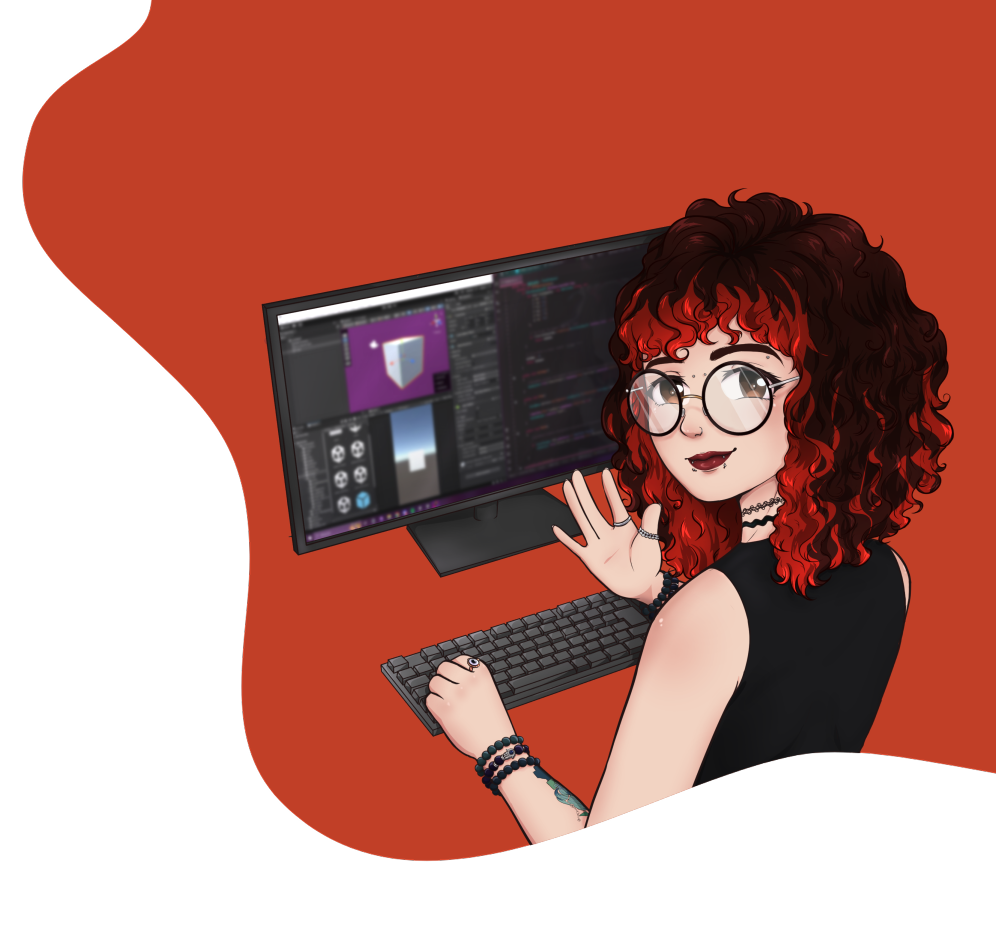
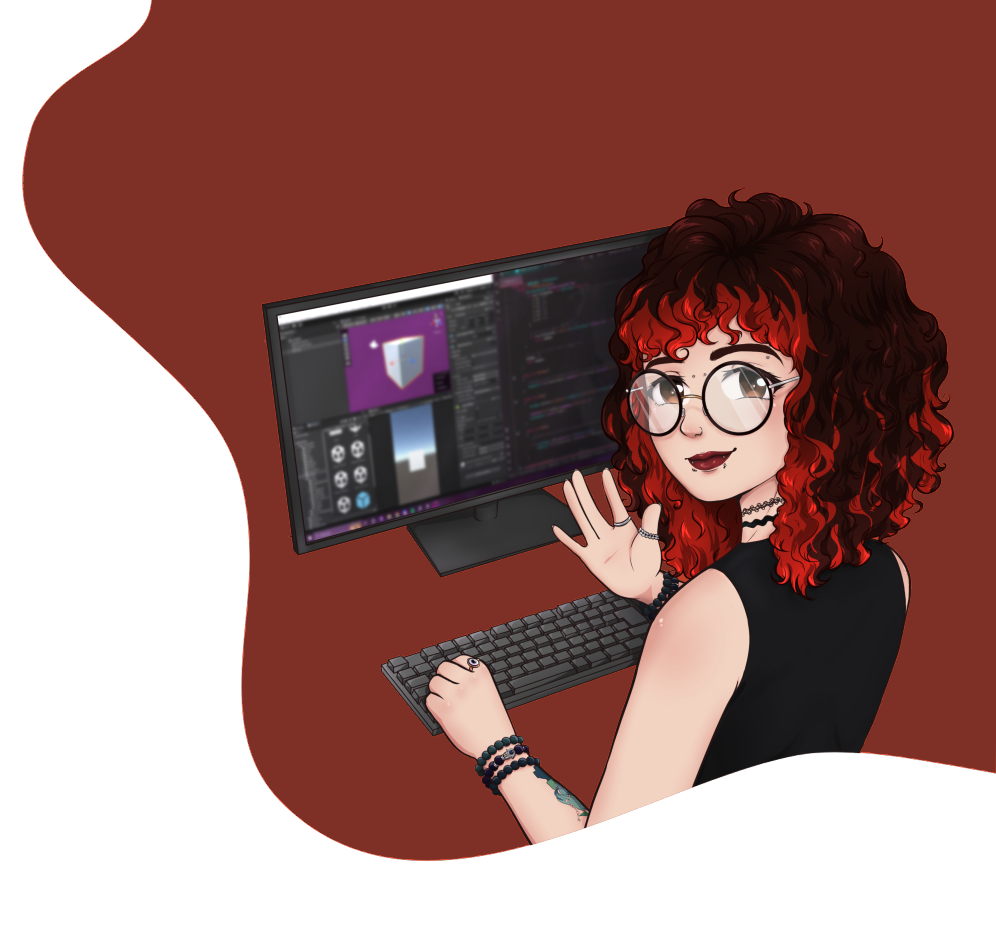
alteração paleta

diff --git a/my-project/src/variables/Colors.css b/my-project/src/variables/Colors.css
@@ -3,22 +3,21 @@
 :root {
     --background-primary: var(--color-primary);
     --background-secondary: var(--color-secondary);
-    --background-footer: #C13F27;
+    --background-footer: #7e2f26;
 
     /* Cores da palheta */
-    --color-primary: #F6F6F6;
-    --color-secondary: #C13F27;
-    --color-tertiary: #FBE9DD;
-    --color-spare: #2F4858;
+    --color-primary: #F7f3ea;
+    --color-secondary: #7e2f26;
+    --color-tertiary: #e8dccb;
+    --color-spare: #242326;
 
     /* Cores dos Botões Custom */
-    --color-button-header: #dadada;
-    --color-buttonScroll: #000;
+    --color-button-header: #e8dccb;
+    --color-buttonScroll: #242326;
 
 
     /* Cores das fontes */
-    --font-primary: #56413E;
-    --font-secondary: #FFF1D7;
-    --font-black: #000;
-
+    --font-primary: #242326;
+    --font-secondary: #F7f3ea;
+    --font-black: #242326;
 }

diff --git a/my-project/src/pages/homePage/intro/Intro.css b/my-project/src/pages/homePage/intro/Intro.css
@@ -228,8 +228,8 @@
     
     .foreground-image {
         position: absolute;
-        top: 50%;
-        left: 65%;
+        top: 55%;
+        left: 61%;
         transform: translate(-50%, -50%);
         z-index: 2;
         width: 320px;
@@ -301,7 +301,7 @@
     .foreground-image {
         position: absolute;
         top: 50%;
-        left: 65%;
+        left: 60%;
         transform: translate(-50%, -50%);
         z-index: 2;
         width: 180px;

diff --git a/my-project/src/App.css b/my-project/src/App.css
@@ -1,5 +1,5 @@
 body {
-  font-family: 'Inconsolata', monospace;
+  font-family: 'Georgia', 'Times New Roman', Times, serif;
   background-color: var(--background-primary);
 }
 

diff --git a/my-project/src/pages/homePage/experience/Experience.css b/my-project/src/pages/homePage/experience/Experience.css
@@ -33,7 +33,7 @@
     border-radius: 8px;
     padding: 1rem 1.2rem;
     background-color: #fdfdfd;
-    font-family: 'Inconsolata', Courier, monospace;
+     font-family: 'Georgia', 'Times New Roman', Times, serif;
     max-width: 900px;
     margin: 2rem auto;
 }

diff --git a/my-project/src/pages/homePage/intro/Intro.js b/my-project/src/pages/homePage/intro/Intro.js
@@ -1,7 +1,7 @@
 import './Intro.css';
 
 import imageDesktop from '../../../assets/img/intro-desktop.png';
-import imageMobile from '../../../assets/img/intro-mobile.png';
+import imageMobile from '../../../assets/img/intro-desktop.png';
 
 import iconGithub from '../../../assets/icon/github.svg';
 import iconItchio from '../../../assets/icon/itchio.svg';